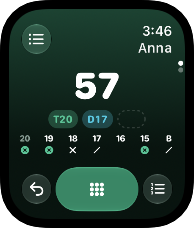
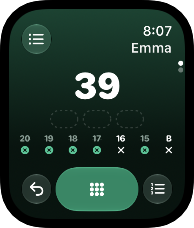
Darts Checkout 6.0.0: screenshots and what's new

diff --git a/darts-checkout-pro.html b/darts-checkout-pro.html
@@ -318,7 +318,7 @@
 <!-- marketing:watch:darts-checkout-pro:start -->
         <div class="watch-row">
             <picture><source srcset="img/darts-checkout-pro/watch-live.avif" type="image/avif"><img src="img/darts-checkout-pro/watch-live.png" alt="Apple Watch: scoring Emma's visit in an X01 match, 40 left after two treble 20s, D20 to finish" width="194" height="228" loading="lazy" decoding="async"></picture>
-            <picture><source srcset="img/darts-checkout-pro/watch-liveCricket.avif" type="image/avif"><img src="img/darts-checkout-pro/watch-liveCricket.png" alt="Apple Watch: scoring Cricket, Anna on 57 points after T20 D17, her marks from 20 to Bull" width="194" height="228" loading="lazy" decoding="async"></picture>
+            <picture><source srcset="img/darts-checkout-pro/watch-liveCricket.avif" type="image/avif"><img src="img/darts-checkout-pro/watch-liveCricket.png" alt="Apple Watch: scoring Cricket against the computer, Emma on 39 with her marks from 20 to Bull" width="194" height="228" loading="lazy" decoding="async"></picture>
             <picture><source srcset="img/darts-checkout-pro/watch-liveKeypad.avif" type="image/avif"><img src="img/darts-checkout-pro/watch-liveKeypad.png" alt="Apple Watch: the dart keypad for the next dart" width="194" height="228" loading="lazy" decoding="async"></picture>
             <picture><source srcset="img/darts-checkout-pro/watch-liveTraining.avif" type="image/avif"><img src="img/darts-checkout-pro/watch-liveTraining.png" alt="Apple Watch: recording Bob's 27, three darts at double 6" width="194" height="228" loading="lazy" decoding="async"></picture>
             <picture><source srcset="img/darts-checkout-pro/watch-gauge.avif" type="image/avif"><img src="img/darts-checkout-pro/watch-gauge.png" alt="Apple Watch: turn the Digital Crown to a target of 108" width="194" height="228" loading="lazy" decoding="async"></picture>
